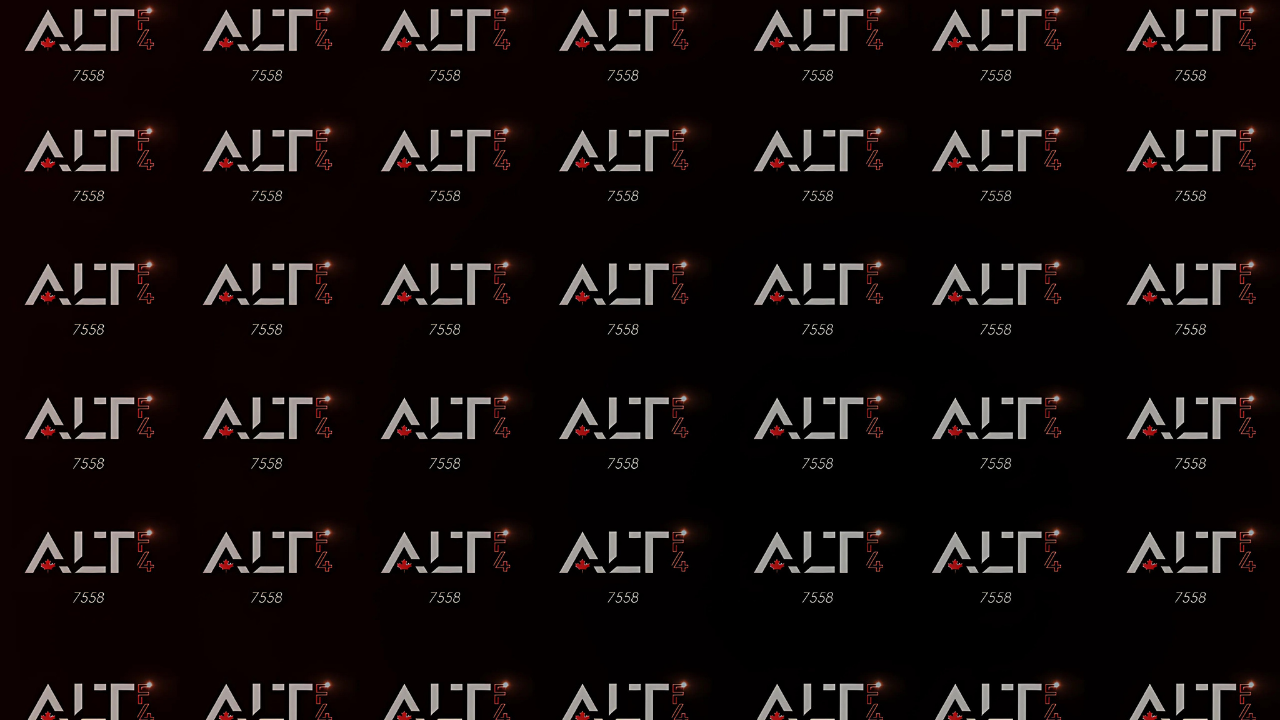
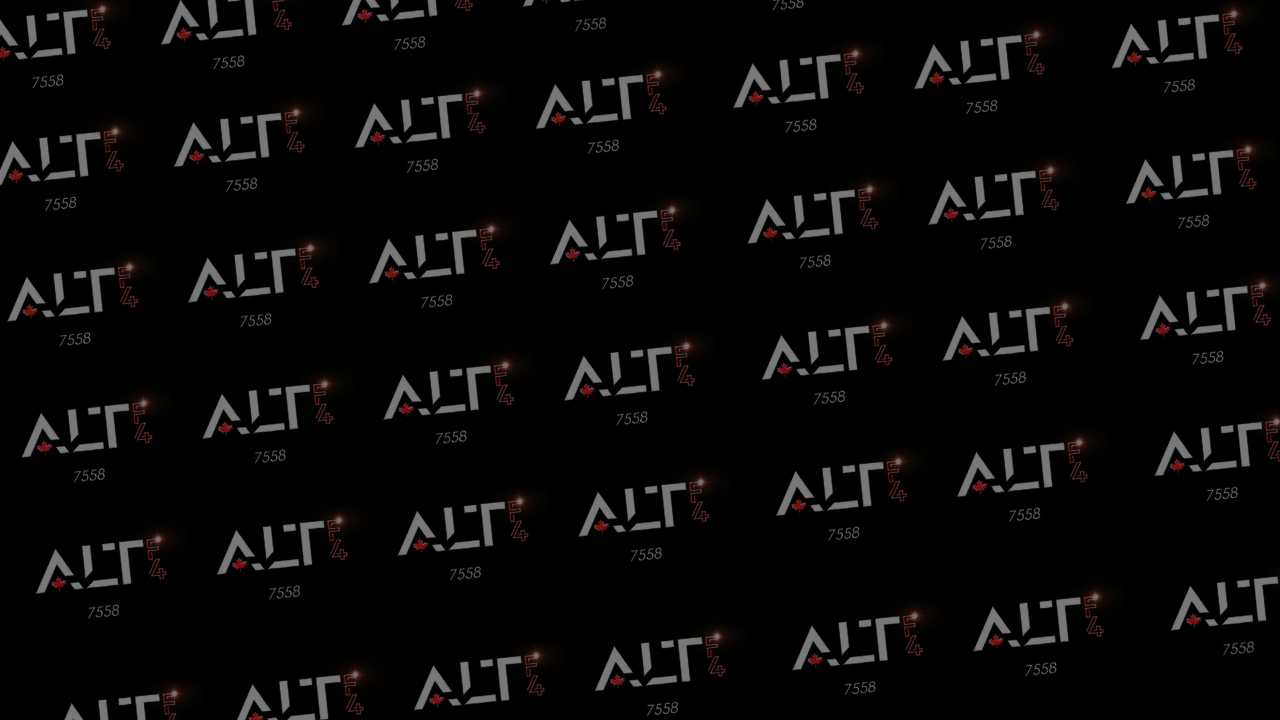
removed unnecescary files

diff --git a/client/src/pages/HomePage.css b/client/src/pages/HomePage.css
@@ -1,6 +1,6 @@
 body{
     background-size: cover;
-    background-image: linear-gradient(rgba(0, 0, 0, 0.7), rgba(0, 0, 0, 0.7)), url("/public/alt-f4_background2.png");
+    background-image: linear-gradient(rgba(0, 0, 0, 0.7), rgba(0, 0, 0, 0.7)), url("/public/alt-f4_background.png");
 }
 
 h1{
